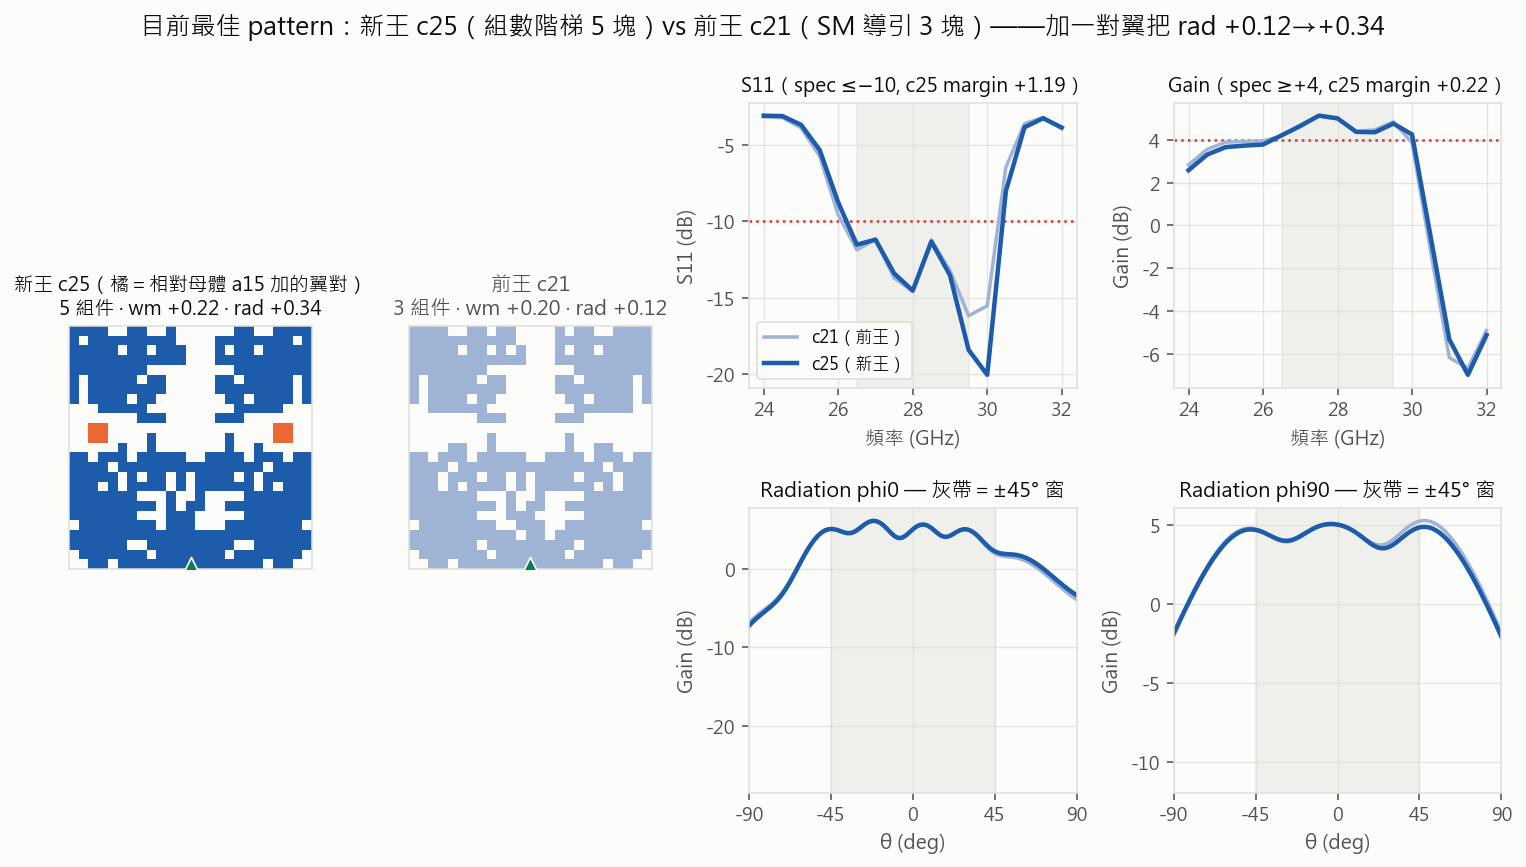
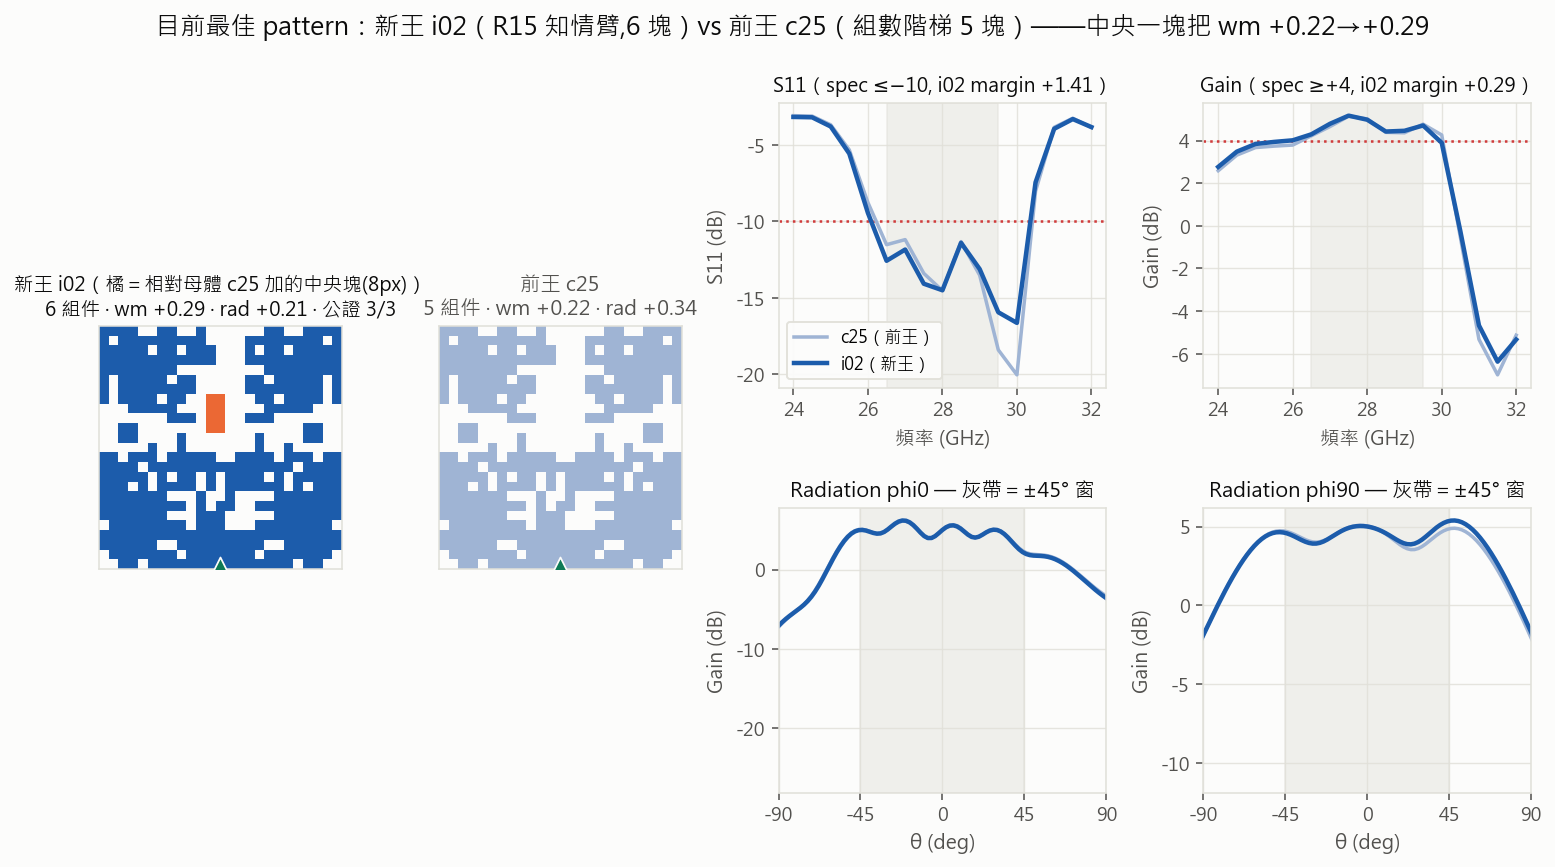
docs(champions): 名鑑重整 v2 — 現任頭銜榜(margin王 i02/製造首選 x00/平衡王 g16/帶內紀錄 g14) + 血統鏈至 i02 + 結構定律;newking 圖換 i02 vs c25
Claude-Session: https://claude.ai/code/session_01QFmqtXBgsgEZTRnAkrexut

diff --git a/script/figs/report_newking.py b/script/figs/report_newking.py
@@ -34,12 +34,13 @@ def resp_of(store, pat):
 
 
 def main():
-    c25 = loadp("dedust_ref3_input", "c25_a15w10_2_22")
-    c21 = loadp("dedust_ref2_input", "c21_sm")
-    a15 = loadp("dedust_ref2_input", "a15_k4")           # c25 的母體(加翼對前)
-    r25, r21 = resp_of("dedust_ref3", c25), resp_of("dedust_ref2v", c21)
-    rad25 = torch.load(str(DATASET_PATH.joinpath("dedust_ref3", "rad", "c25_a15w10_2_22.pt")), weights_only=True)
-    rad21 = torch.load(str(DATASET_PATH.joinpath("dedust_ref2v", "rad", "c21_sm.pt")), weights_only=True)
+    # v2 (2026-07-09): 新王 i02 vs 前王 c25（i02=c25+中帶雙塊,母體=c25）
+    c25 = loadp("dedust_r15inf_input", "i02_r15")        # 新王 i02
+    c21 = loadp("dedust_ref3_input", "c25_a15w10_2_22")  # 前王 c25（對比基準）
+    a15 = loadp("dedust_ref3_input", "c25_a15w10_2_22")  # i02 的母體=c25（橘=加的塊）
+    r25, r21 = resp_of("dedust_r15inf", c25), resp_of("dedust_ref3", c21)
+    rad25 = torch.load(str(DATASET_PATH.joinpath("dedust_r15inf", "rad", "i02_r15.pt")), weights_only=True)
+    rad21 = torch.load(str(DATASET_PATH.joinpath("dedust_ref3", "rad", "c25_a15w10_2_22.pt")), weights_only=True)
     freq = 26.5 + (np.arange(r25.shape[1]) - 5) * 0.5
 
     fig = plt.figure(figsize=(13.2, 6.4))
@@ -52,14 +53,14 @@ def main():
     img[c25 != a15] = 2                                   # 橘=相對母體 a15 加的翼對(組數階梯)
     axp.imshow(img, cmap=ListedColormap([SURF, DBLUE, ORANGE]), vmin=0, vmax=2, origin="upper", interpolation="nearest")
     axp.scatter([FEED[1]], [FEED[0]], marker="^", s=52, color=AQUA, zorder=5, edgecolor=SURF, lw=0.9)
-    axp.set_title("新王 c25（橘＝相對母體 a15 加的翼對）\n5 組件 · wm +0.22 · rad +0.34", color=INK, fontsize=10)
+    axp.set_title("新王 i02（橘＝相對母體 c25 加的中央塊(8px)）\n6 組件 · wm +0.29 · rad +0.21 · 公證 3/3", color=INK, fontsize=10)
     axp.set_xticks([]); axp.set_yticks([])
     for s in axp.spines.values():
         s.set_color(GRID)
     axc = fig.add_subplot(gs[:, 1])
     axc.imshow(c21.astype(int), cmap=ListedColormap([SURF, "#9fb4d4"]), vmin=0, vmax=1, origin="upper", interpolation="nearest")
     axc.scatter([FEED[1]], [FEED[0]], marker="^", s=52, color=AQUA, zorder=5, edgecolor=SURF, lw=0.9)
-    axc.set_title("前王 c21\n3 組件 · wm +0.20 · rad +0.12", color=INK2, fontsize=10.5)
+    axc.set_title("前王 c25\n5 組件 · wm +0.22 · rad +0.34", color=INK2, fontsize=10.5)
     axc.set_xticks([]); axc.set_yticks([])
     for s in axc.spines.values():
         s.set_color(GRID)
@@ -70,11 +71,11 @@ def main():
         ax = fig.add_subplot(gr)
         ax.axvspan(26.5, 29.5, color=GRID, alpha=0.45)
         ax.axhline(spec, color=RED, ls=":", lw=1.3)
-        ax.plot(freq, r21[idx], color="#9fb4d4", lw=1.8, label="c21（前王）")
-        ax.plot(freq, r25[idx], color=DBLUE, lw=2.3, label="c25（新王）")
+        ax.plot(freq, r21[idx], color="#9fb4d4", lw=1.8, label="c25（前王）")
+        ax.plot(freq, r25[idx], color=DBLUE, lw=2.3, label="i02（新王）")
         band = r25[idx][5:12]
         m = (spec - band.max()) if low else (band.min() - spec)
-        style_ax(ax, "頻率 (GHz)", f"{nm} (dB)", f"{nm}（spec {'≤−10' if low else '≥+4'}, c25 margin {m:+.2f}）", tfs=10)
+        style_ax(ax, "頻率 (GHz)", f"{nm} (dB)", f"{nm}（spec {'≤−10' if low else '≥+4'}, i02 margin {m:+.2f}）", tfs=10)
         if idx == 0:
             ax.legend(fontsize=8.6, loc="lower left", framealpha=0.94).get_frame().set_edgecolor(GRID)
     for (gr, cut) in ((gs[1, 2], "phi0"), (gs[1, 3], "phi90")):
@@ -84,7 +85,7 @@ def main():
         ax.plot(np.asarray(rad25["theta"]), np.asarray(rad25[cut]), color=DBLUE, lw=2.3)
         ax.set_xlim(-90, 90); ax.set_xticks([-90, -45, 0, 45, 90])
         style_ax(ax, "θ (deg)", "Gain (dB)", f"Radiation {cut} — 灰帶＝±45° 窗", tfs=10.5)
-    fig.suptitle("目前最佳 pattern：新王 c25（組數階梯 5 塊）vs 前王 c21（SM 導引 3 塊）——加一對翼把 rad +0.12→+0.34",
+    fig.suptitle("目前最佳 pattern：新王 i02（R15 知情臂,6 塊）vs 前王 c25（組數階梯 5 塊）——中央一塊把 wm +0.22→+0.29",
                  color=INK, fontsize=13)
     fig.tight_layout(rect=[0, 0, 1, 0.97])
     save(fig, "newking.png")

diff --git a/docs/champions.md b/docs/champions.md
@@ -1,105 +1,86 @@
-# 冠軍名鑑 — 八個三標全過的可製造 pattern（certified，2026-07-07）
+# 冠軍名鑑（certified；最後更新 2026-07-09，R15 收檔）
 
-> 專案第一批**正式冠軍**：S11＋Gain＋rad±45°＋可製造，四關全過。每筆都通過完整驗證譜系
-> （見下），margin 值可直接引用。配方全決定性——每個冠軍可用一行指令從錨點重現。
-> 規格：帶內（26.5–29.5 GHz）S11 ≤ −10、Gain ≥ +4；rad ±45°/3dB（phi0＋phi90 雙切面）；
-> 可製造＝全件 ≥4px、零粉塵。量測體系：雜訊地板 ≈0、掃頻擬合誤差 ≈0（round-09/10 公證）。
+> **三標**＝帶內（26.5–29.5 GHz）S11 ≤ −10、Gain ≥ +4 ＋ rad ±45°/3dB（雙切面）＋ 可製造（全件 ≥4px、零粉塵）。
+> 榜上每筆皆經公證（重複量測一致；量測體系：雜訊地板 ≈0、掃頻擬合誤差 ≈0）。配方全決定性可重現。
+> 帶外選擇性（oob_bad，越低越好）＝加分 tiebreak，永不換帶內（decisions 2026-07-07）。
 
-## 榜單（按 wm 排序；margin 單位 dB，皆為正＝過線餘裕）
+## 現任頭銜
 
-| # | id | wm | S11 | Gain | rad phi0 | rad phi90 | 出身 | 配方（錨點 w17 + …） |
-|---|---|---|---|---|---|---|---|---|
-| 🥇 | **c25** | **+0.22** | +1.19 | +0.22 | +0.34 | — | **組數階梯（5塊）** | a15 翼對加塊（R11 ref3）＋10-5-10 對稱化——**新王,公證✓** |
-| 🥈 | c21_sm | +0.20 | +1.18 | +0.20 | +0.12 | +1.73 | SM 導引 | 翻 32px（seed 7489）＋10-5-10 再對稱化——**穩健王(缺陷存活 50%)** |
-| 🥈 | a00_k2 | +0.15 | +0.99 | +0.15 | +0.13 | +1.62 | 盲掃 | 翻 2px（seed 6000）＋再對稱化 |
-| 🥉 | b11_k2 | +0.13 | +0.49 | +0.13 | **+0.22** | **+1.91** | **知情編輯** | 承重圖低成本區翻 2px（seed 6059） |
-| 4 | c10_sm | +0.07 | +0.85 | +0.07 | +0.35 | +1.73 | SM 導引 | 翻 16px（seed 7344） |
-| 5 | c18_sm | +0.07 | +1.10 | +0.07 | +0.32 | +1.87 | SM 導引 | 翻 16px（seed 7430） |
-| 6 | c17_sm | +0.07 | +0.60 | +0.07 | +0.10 | +1.75 | SM 導引 | 翻 16px（seed 7375） |
-| 7 | **a15_k4** | +0.03 | +0.78 | +0.03 | **+0.56** | +1.83 | 盲掃 | 翻 4px（seed 6015）——**rad 王** |
-| 8 | a11_k2 | +0.01 | +0.65 | +0.01 | +0.24 | +1.77 | 盲掃 | 翻 2px（seed 6011） |
+| 頭銜 | id | 數字 | 判準依據 |
+|---|---|---|---|
+| 👑 **margin 王** | **i02** | **wm +0.29**／rad +0.21（公證 3/3;缺陷存活 3/4） | 字典序 best（R15） |
+| 🏭 **製造首選** | **x00** | wm +0.19／rad +0.19（**缺陷存活 13/18＝72%**） | margin 相近時穩健性優先（R12 bakeoff） |
+| 📡 rad 王 | a15_k4 | rad +0.56（wm +0.03） | rad 規格收緊時的保單 |
+| ⚖ 平衡王 | g16 | wm +0.21／rad +0.49（公證✓） | margin×rad 雙高（R15） |
+| 🎯 帶內紀錄 | g14 | **wm +0.40**（公證✓）——**rad −0.39 未過＝非三標** | 帶內天花板實測;rad 救援走 R16 塊歸因 |
+| 🛡 rad 備援 | pc18_full | wm +0.09／rad +0.53（c18 全對稱版） | 對稱度=rad 旋鈕的產物（R11） |
 
-> **2026-07-09 更新（R15）**：**margin 王換 i02**（c25+8px 中帶雙塊,6 組件;wm +0.29/rad +0.21,公證 3/3,
-> 缺陷存活 3/4）——出身=R15 知情臂（組件空間+SM 字典序）。g16 同批轉正（+0.21/+0.49）。
-> **帶內紀錄保持者 g14 +0.40**（公證✓;rad −0.39 未過=非三標,rad 救援走 R16 塊歸因）。
-> 理論模板（實心矩形）否證新盆地,但帶外 4.1-7.1=史上最淨=「翼買帶內付帶外」的 0 翼端點。
->
-> **2026-07-08 製造冠軍定案（R12 bakeoff,缺陷 k1×18）**：**送製造首選＝x00**（c21 翻 2px 變體,wm +0.19/rad +0.19,
-> 公證✓）——**缺陷存活 13/18=72%,遠勝 c25(56%)與 c21(28%)**,缺陷後最壞僅 −0.44。教訓:2px 之差改變穩健性甚鉅
-> （x00 剛好避開 c21 的脆弱邊緣像素）→ **margin 相近時穩健性才是製造判準**。c25 仍是 margin/rad 王(展示用)。
->
-> **2026-07-08 更新（R11/R12）**：新王 **c25 wm +0.22**（S11 +1.19 全場最寬、rad +0.34），出身=你的**組數階梯 5 塊翼對**
-> ——首個「加塊」冠軍,證明離開 3 塊構型也能過三標。另收 **pc18_full**（八冠軍 c18 全對稱版,wm +0.09/rad +0.53）
-> =rad 保單。**送製造首選看穩健性不看 margin**（見上方 bakeoff：18 樣本定案 x00 72% > c25 56% > c21 28%,
-> 早期 tol 小樣本高估了 c21）。**第二山頭裁決（R12 family2）：非 w17 家族 F0/F1/F4/F6 深掘全敗**
-> （最佳 F6 clean wm −1.45,距 spec 遠）→ **w17/F2 家族特殊性確立**,可製造三標解只住這一片高原。
+## 現任榜（三標全過且公證，按 wm 排序）
 
-共同體質（原八冠軍）：**全部 3 個組件、零粉塵、主件 240-250px、金屬 391-404px**——同一種「10-5-10 對稱、
-下主體＋上雙翼」的構型（w17 家族）。短板一致是 **Gain 帶緣**（wm＝Gain margin，全員如此）；
-S11 餘裕最寬（+0.49~+1.18）、rad phi90 全員 >1.6（phi0 是 rad 的緊邊）。
+| # | id | wm | rad | 組件 | 出身（round） |
+|---|---|---|---|---|---|
+| 1 | **i02** | **+0.29** | +0.21 | 6 | R15 知情臂＝c25＋中央塊 8px |
+| 2 | c25 | +0.22 | +0.34 | 5 | R11 組數階梯＝a15＋翼對（Ricky 提議） |
+| 3 | g16 | +0.21 | +0.49 | 7 | R15 GA 臂＝c21＋三塊 |
+| 4 | c21_sm | +0.20 | +0.12 | 3 | R10 SM 導引（原旗艦） |
+| 5 | **x00** | +0.19 | +0.19 | 3 | R11 wide X 臂＝c21 翻 2px（破對稱） |
+| 6 | a00_k2 | +0.15 | +0.13 | 3 | R10 盲掃 |
+| 7 | b11_k2 | +0.13 | +0.22 | 3 | R10 知情編輯 |
+| 8 | pc18_full | +0.09 | +0.53 | 3 | R11 全對稱探針 |
+| 9-12 | c10/c18/c17_sm | +0.07 | +0.10~0.35 | 3 | R10 SM 導引 |
+| 13 | a15_k4 | +0.03 | **+0.56** | 3 | R10 盲掃（rad 王） |
+| 14 | a11_k2 | +0.01 | +0.24 | 3 | R10 盲掃 |
 
-## 目前最佳：新王 c25 vs 前王 c21
+（互異三標過解累計 150+；上表僅列公證過的代表。）
 
-![新王 c25 vs 前王 c21](report/assets/newking.png)
+## 目前最佳：新王 i02 vs 前王 c25
 
-c25＝在 a15（3 塊 rad 王）上用**組數階梯加一對翼**（橘）＋10-5-10 對稱化 → 5 組件、wm +0.20→+0.22、
-**rad +0.12→+0.34**。帶內 S11/Gain 與 c21 幾乎重疊（c25 略勝），rad phi90 邊緣抬高＝多的翼對買到的覆蓋餘裕。
-圖:`script/figs/report_newking.py`（決定性可重跑）。
+![新王 i02 vs 前王 c25](report/assets/newking.png)
 
-## Gallery（橘＝與前任 w17 的差異像素）
+i02＝在 c25 上加**一個中央塊（8px）**→ 6 組件、wm +0.22→+0.29（S11 餘裕 +1.41 全場最寬）。
+血統三代都是「組件級加塊」：a15（3 塊）→ c25（＋翼對＝5 塊）→ i02（＋中央塊＝6 塊）。
+圖：`script/figs/report_newking.py`（決定性可重跑）。
 
-![八冠軍 gallery](log/assets/round-10/champions8_gallery.png)
+## 頭銜判準說明（工程上誰該被選）
 
-肉眼可讀的訊息：八個冠軍都是 w17 的**小步保對稱變體**（差異像素 2-32 個、鏡射成對）——w17 高地
-是一整片高原，不是孤峰。三種出身（盲掃／知情編輯／SM 導引）都在這片高原上找到過線點，
-其中 SM 導引佔 4 席＝重錨後導航儀的直接戰績（它敢挑 k=16-32 的遠鄰居而且挑得準）。
-
-## 前三名三標曲線（灰＝前任 w17）
-
-![前三名曲線](log/assets/round-10/champions3_curves.png)
-
-- **c21（旗艦）**：S11 帶內全程 −11 以下（margin +1.18 全場最寬）、Gain 帶緣站上 4.20。
-- **b11（平衡型）**：rad 兩切面全場最佳（+0.22／+1.91）＝知情編輯「避開承重區」的設計意圖兌現。
-- **a15（rad 王）**：phi0 +0.56 遙遙領先，wm +0.03 貼線——如果 rad 規格日後收緊，它是保單。
-
-## 驗證譜系（每筆冠軍都走完全程）
-
-| 驗證維度 | 方法 | 結果 |
-|---|---|---|
-| 批次脈絡 ① | ref2 過夜批（37,舊萃取碼,122 筆中段） | 值與②一致 |
-| 批次脈絡 ②＋修復版萃取 | ref2v 重驗批（37,`align_curve` 後） | 10/11 與①逐位同（唯一崩的 b20 被淘汰） |
-| 掃頻硬解＋跨機 | champ_disc（218,`--sweep Discrete` 17 點逐點） | **8/8 與②逐位同** |
-| 量測地基 | 雜訊地板 ≈0（41 次跨機公證）＋掃頻擬合誤差 ≈0 | round-09 §4 附錄／round-10 §4 |
-
-對照教訓：前任 w17 曾以「+0.48 單次量測」被誤封三標全過,後被公證翻案（萃取 bug,已修）——
-本批八筆正是在那次教訓建立的鐵則（**紀錄級結論一律多維驗證後才算數**）下產生的。
+- **送製造 → x00**：R12 bakeoff（缺陷 k1×18 統計級）定案 x00 存活 72% ＞ c25 56% ＞ c21 28%。
+  教訓：margin 相近時**穩健性才是製造判準**（x00＝c21 翻 2px，穩健 28%→72%）；i02 缺陷 3/4 方向好但樣本小，
+  要搶製造首選需補 bakeoff 級樣本。
+- **展示／論文主圖 → i02**（margin 王）；**帶內天花板論證 → g14**（+0.40 為真但 rad 未過＝三標張力的實測上界）。
 
 ## 血統（完整可追溯鏈）
 
 ```
 學長 24k 池 → 跨家族普查(R9) → F2 錨點(−0.01,碎片雲)
-  → 10-5-10 對稱化 = s05 (−0.29)          [R9 破紀錄]
-  → 翻8px+再對稱化 = w17 (−0.06)          [R10 ref1,前任]
-  → 三臂並發精修 = 八冠軍 (+0.01~+0.20)    [R10 ref2,本批]
+  → 10-5-10 對稱化 = s05 (−0.29)              [R9 破紀錄]
+  → 翻8px＋再對稱化 = w17 (−0.06)              [R10 前任]
+  → 三臂精修 = 八冠軍 (+0.01~+0.20)             [R10]
+  → 組數階梯加翼對 = c25 (+0.22)                [R11,Ricky]
+  → 組件空間＋中央塊 = i02 (+0.29)              [R15 現任]
 ```
-每步的算子與 seed 都在對應 round 檔;血統圖見 `log/assets/round-10/w17_lineage.png`。
+每步算子＋seed 在對應 round 檔。第一代 gallery：`log/assets/round-10/champions8_gallery.png`；
+血統圖：`log/assets/round-10/w17_lineage.png`。
 
-## Pattern 本體與重現
+## 結構定律（為什麼是這個長相；證據見 round-13/14/15）
 
-- **8 冠軍 25×25 純文字**：[`log/assets/round-10/champions8_patterns.txt`](log/assets/round-10/champions8_patterns.txt)
-  （repo 內零依賴可讀）;原始 .pt 在 NAS `dedust_r`（ref2 輸入夾）。
-- **重現任一冠軍**：`dedust_ref1_input/w17_k8.pt` 為錨點 → A/B 臂＝`symmetrize(perturb_repair(w17, k, seed), 10)`
-  （B 臂的 perturb 換 `perturb_blocks(..., blocks=[[0,1],[0,2],[3,1],[3,2]])`）；C 臂＝同 A 生成後由
-  `sm_reanchor.pth` 排序選中。批次驗證：`python -m script.dedust report --input dedust_ref2v_input --store dedust_ref2v`。
+- **設計語言**：下主件（匹配底座，尺寸鎖定 235-250px）＋雙翼（帶內引擎 ~6dB，刀鋒敏感 73-83px）＋小塊
+  （rad/選擇性旋鈕，甜蜜點 4-6 塊）。
+- **三標張力載體＝翼**：翼買帶內、付 rad＋帶外（消融＋理論模板 0 翼端點連成完整曲線）。
+- **w17 家族特殊性**（R12）：非 w17 池家族深掘全敗——24k 池內唯一可製造達標區。
+- 尺寸分布：不均度對三標全面有害；金屬分給翼勝過堆主件（analysis-02，相關性級）。
+
+## 驗證譜系與公差
+
+- 公證制度：紀錄級一律重複量測（+0.48 假象教訓）；R12 crown 起 12 候選公證**零假象**＝制度成熟。
+- 掃頻交叉驗證 9/9 逐位同、跨機 bit 級一致（41 次）。
+- 公差：整面 erode/dilate 1px 全滅（極端應力）；局部缺陷存活＝margin×位置函數（bakeoff 見上）。
 
 ## 侷限與進行中
 
-- **公差掃描（R11 tol + R12 bakeoff）**：整面 erode/dilate 1px 三員全滅（極端應力測試）;局部邊緣缺陷存活率
-  =margin 的函數。**製造冠軍定案（bakeoff 缺陷 k1×18,大樣本）：x00 72% > c25 56% > c21 28%**——早期 tol 小樣本
-  高估 c21;2px 之差（x00=c21 翻 2px）可讓穩健性 28%→72%（避開脆弱邊緣像素）。災難崩=缺陷踩承重邊緣（與承重圖同構）。
-- 全部結論在現行 HFSS 設定內；真 ground truth＝實作量測。
-- 八筆同族（w17 高原）——多樣性不足是已知取捨;跨家族的第二座山頭（F3/g24 線）留待後續。
+- 全部結論在現行 HFSS 設定內；真 ground truth＝實作量測（**x00 為首選送測候選**）。
+- 全員 w17 家族（特殊性已證、非疏漏）；帶外最佳三標解仍 ~9（0 翼端點 4.1 不可兼得帶內）。
+- 進行中：R16（添加收益圖／可加性／翼修邊／再分配）@37+218。
 
 ---
-證據索引：[round-10](log/round-10-refine-attribution.md)＋[report](log/round-10-report.md) ·
-規則背景：[design_priors.md](design_priors.md) · 期望基準：[round-06](log/round-06-offline-expected-best.md)
+證據索引：round-10/11/12/13/14/15 檔＋reports · 規則：[design_priors.md](design_priors.md) ·
+區調整指南：`report/assets/region_guide.png` · 成果報告：`report/progress-r{1-r10,11-r14}.md`
